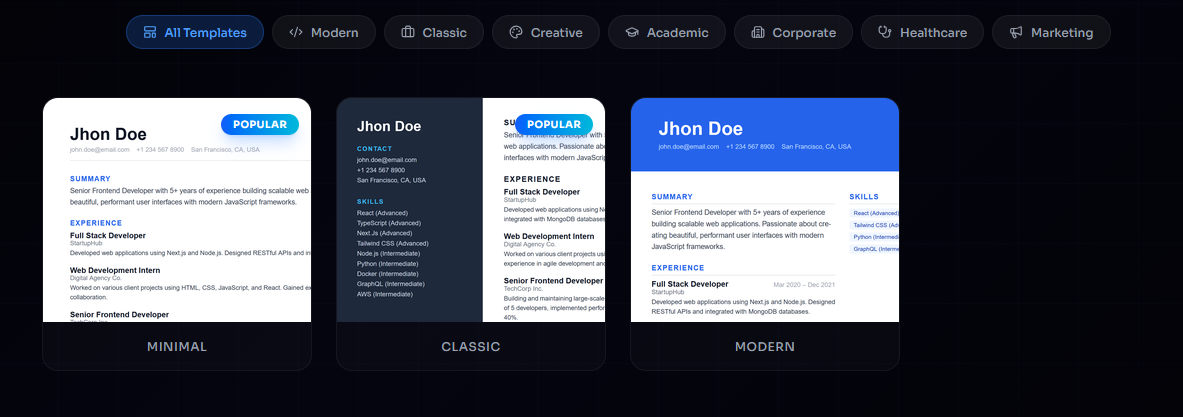
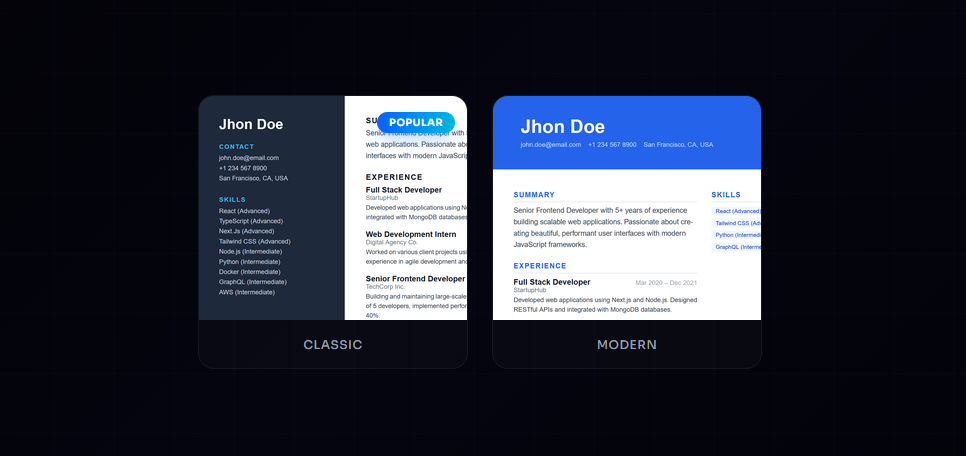
change images

diff --git a/src/pages/Templates/Templates.tsx b/src/pages/Templates/Templates.tsx
@@ -68,7 +68,7 @@ function TemplateCard({ template }: { template: TemplateConfig & { popular?: boo
         <div className="relative h-56 sm:h-56 overflow-hidden bg-white/5 flex items-center justify-center">
           {!imgError ? (
             <img
-              src={`/templates/${template.slug}.png`}
+              src={`/ResumeBuilder/templates/${template.slug}.png`}
               alt={template.name}
               className="w-full h-full object-cover object-left"
               onError={() => setImgError(true)}
